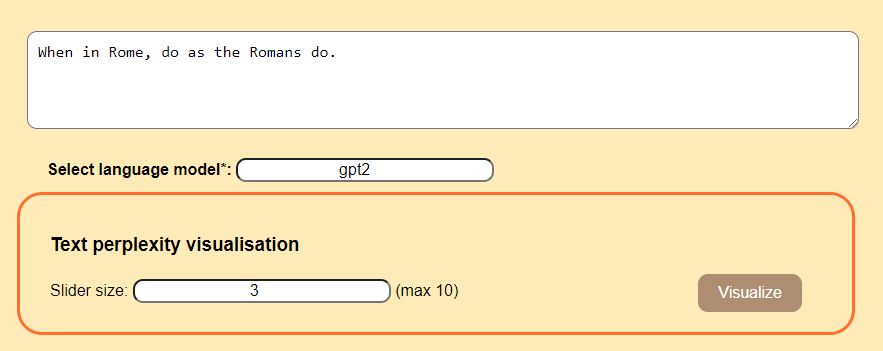
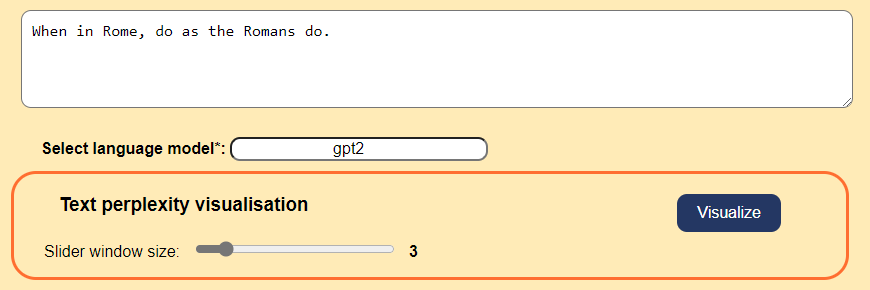
ui and cfg update

diff --git a/templates/index.html b/templates/index.html
@@ -4,10 +4,6 @@
     <meta charset="UTF-8">
     <link rel= "stylesheet" type= "text/css" href= "{{ url_for('static',filename='main.css') }}">
     <script>
-        function req(){
-            var html_string= "Request sent!";
-            document.getElementById('if').src = "data:text/html;charset=utf-8," + escape(html_string);
-        }
         function help(){
             document.getElementById('if').src = "/help";
         }
@@ -17,38 +13,43 @@
 <body>
 <div class="half">
     <h2>Input text to process or to use as context <span class="help" onclick="help()">?</span></h2>
-    <form target="if" method="post" onsubmit="req()">
-        <textarea required maxlength="300" rows="4" name="data" placeholder="Type here..."></textarea>
+    <form target="if" method="post">
+        <textarea required maxlength='{{cfg["inputmax"]}}' rows="4" name="data" placeholder="Type here..."></textarea>
             <br/>
         <b style="margin:auto; margin:40px">Select language model*:
-        <input type="text" name="model" placeholder="hugggingface model name" list="models-list"/></b>
+        <input required type="text" name="model" value='{{cfg["models"][0]}}' placeholder="hugggingface model name" list="models-list"/></b>
             <br/>
         <section>
-            <h3>Text perplexity visualisation </h3>
-            Slider size: <input type="number" min="2" max="10" name="step" placeholder="5"/> (max 10)
-            <input type = "submit" name="pv" value="Visualize" formaction="/api"  style="float:right" />
+            <h3>Text perplexity visualisation
+                <input type = "submit" name="pv" value="Visualize" formaction="/api"  style="float:right" />
+            </h3>
+
+            {% for x, y in cfg["inputs"]["visualisation"].items() %}
+            <label>{{y["label"]}}</label>
+            <input type="range" min='{{y["min"]}}' max='{{y["max"]}}' value='{{y["value"]}}' step='{{y["step"]}}'
+                   class="slider" name="{{x}}" oninput="this.nextElementSibling.value = this.value">
+            <output>{{y["value"]}}</output>
             <br/>
+            {% endfor %}
+
         </section>
 
         <section>
-            <h3>Generation (GPT-2 only)</h3>
+            <h3>Generation (GPT-2 only)
+                <input type = "submit" name="gen" value="Generate" formaction="/api"/>
+            </h3>
 
-                Text length (in tokens):
-                <input type="number" name="len" placeholder="10" min="1" max="100" /> (max 100)
+            {% for x, y in cfg["inputs"]["generation"].items() %}
+            <label>{{y["label"]}}</label>
+            <input type="range" min='{{y["min"]}}' max='{{y["max"]}}' value='{{y["value"]}}' step='{{y["step"]}}'
+                   class="slider" name="{{x}}" oninput="this.nextElementSibling.value = this.value">
+            <output>{{y["value"]}}</output>
             <br/>
-                Temperature (from most conservative to most creative):
-                <input type="range" min="0" max="1" value="0.75" step="0.01" class="slider" name="temp">
-            <br/>
+            {% endfor %}
 
-            <h4>Composite generation (optional parameters)</h4>
-            Select second model*:
-                <input type="text" name="alt" placeholder="hugggingface model name" list="models-list"/>
-            <br/>
-                Input number of candidates:
-                <input type="number" name="count" placeholder="5" min="1" max="10" /> (max 10)
+            Select second model (for evaluation)*:
+                <input type="text" name="alt"  placeholder="hugggingface model name" list="models-list"/>
 
-            <input type = "submit" name="gen" value="Generate" formaction="/api"/>
-            <br/>
         </section>
 
         <section>
@@ -58,10 +59,10 @@
     <div>* Will download for local instance! Some models require additional preprocessing files!</div>
 </div>
 
-<iframe class="half" name="if" id="if"></iframe>
+<iframe class="half" name="if" id="if" src="/help"></iframe>
 
 <datalist id="models-list">
-    {% for item in data %}
+    {% for item in cfg["models"] %}
         <option value="{{item}}"></option>
     {% endfor %}
 </datalist>

diff --git a/static/main.css b/static/main.css
@@ -18,7 +18,7 @@ br{
 }
 
 .half {
-    min-width: 750px;
+    min-width: 500px;
     height: calc(100vh - 26px);
     width: calc(50vw - 68px);
     display: inline-block;
@@ -43,7 +43,7 @@ textarea {
  input[type=submit]  {
   margin-right: 20px;
   border: none;
-  background: var(--second);
+  background: var(--first);
   padding: 10px 20px;
   border-radius: 10px;
   color: #fff;
@@ -68,7 +68,7 @@ section{
     border: 3px solid var(--third);
     border-radius: 25px;
     vertical-align: top;
-    padding: 20px 30px;
+    padding: 5px 30px 10px 30px;
     margin: 10px;
 }
 
@@ -113,3 +113,18 @@ canvas{
     max-width:900px;
     display:block;
 }
+
+output{
+    font-weight:bold;
+}
+
+.slider{
+    margin:10px;
+    width:200px;
+}
+
+h2,h3{
+    margin:15px
+}
+
+

diff --git a/transformerworks.py b/transformerworks.py
@@ -1,19 +1,14 @@
 from transformers import AutoTokenizer, AutoModelForCausalLM
 from torch import randint as torch_rand
 from random import randint
-from helper import limit, perp2prob
+from helper import limit, cfg
 from math import exp
 from preprocessing.preprocessing import get_preprocess
 from preprocessing.tokenizer import sr_tokenize
 from torchworks import netpass, tensor2device
-from json import load
-from os import path as px
 
 
-with open(px.join(px.dirname(__file__), "modelname-cache.json"), "r", encoding="utf-8") as jf:
-    modellist = load(jf)
 initiated_models = {}
-lock = True
 
 
 def gengen(text, model, length, temp, alt, cn):
@@ -36,7 +31,7 @@ def full_eval(text):
     tokens = []
     for mod in mods:
         perps[mod] = perplexity(mod, text)
-        vectors[mod], tokens = inspect(mod, text, step=5)
+        vectors[mod], tokens = inspect(mod, text, step=3)
 
     ps = [1/perps[x] for x in perps]
     vs = [[1/y for y in vectors[x]] for x in vectors]
@@ -180,7 +175,7 @@ def text2tokentensors(tokenizer, text):
 
 def ini(modelname):
     if modelname not in initiated_models:
-        if not lock or modelname in modellist:
+        if not cfg["lock"] or modelname in cfg["models"]:
             initiated_models[modelname] = tensor2device(AutoModelForCausalLM.from_pretrained(modelname)),\
                                           AutoTokenizer.from_pretrained(modelname)
     model, tokenizer = initiated_models[modelname]

diff --git a/main.py b/main.py
@@ -1,7 +1,7 @@
 from flask import Flask, request, Response, render_template, make_response
-from helper import limit
+from helper import limit, cfg
 from os import environ
-from transformerworks import gengen, full_eval, visualize, modellist
+from transformerworks import gengen, full_eval, visualize
 
 
 app = Flask(__name__)
@@ -10,7 +10,7 @@ app.config["DEBUG"] = False
 
 @app.route('/')
 def home():
-    return render_template('index.html', data=modellist)
+    return render_template('index.html', cfg=cfg)
 
 
 @app.route('/4api')

diff --git a/torchworks.py b/torchworks.py
@@ -167,4 +167,6 @@ def netpass(input, net, cnn):
             y_prob_list.append(y_pred_prob.cpu().numpy())
     y_pred_list = [a.squeeze().tolist() for a in y_pred_list]
     y_prob_list = [a.squeeze().tolist() for a in y_prob_list]
+    if cnn:
+        y_pred_list[0] = 1-y_pred_list[0]
     return y_pred_list[0], round(y_prob_list[0], 4)

diff --git a/helper.py b/helper.py
@@ -1,4 +1,10 @@
 from os import name, remove
+from json import load
+from os import path as px
+
+
+with open(px.join(px.dirname(__file__), "config.json"), "r", encoding="utf-8") as jf:
+    cfg = load(jf)
 
 
 def limit(x, min, max):
